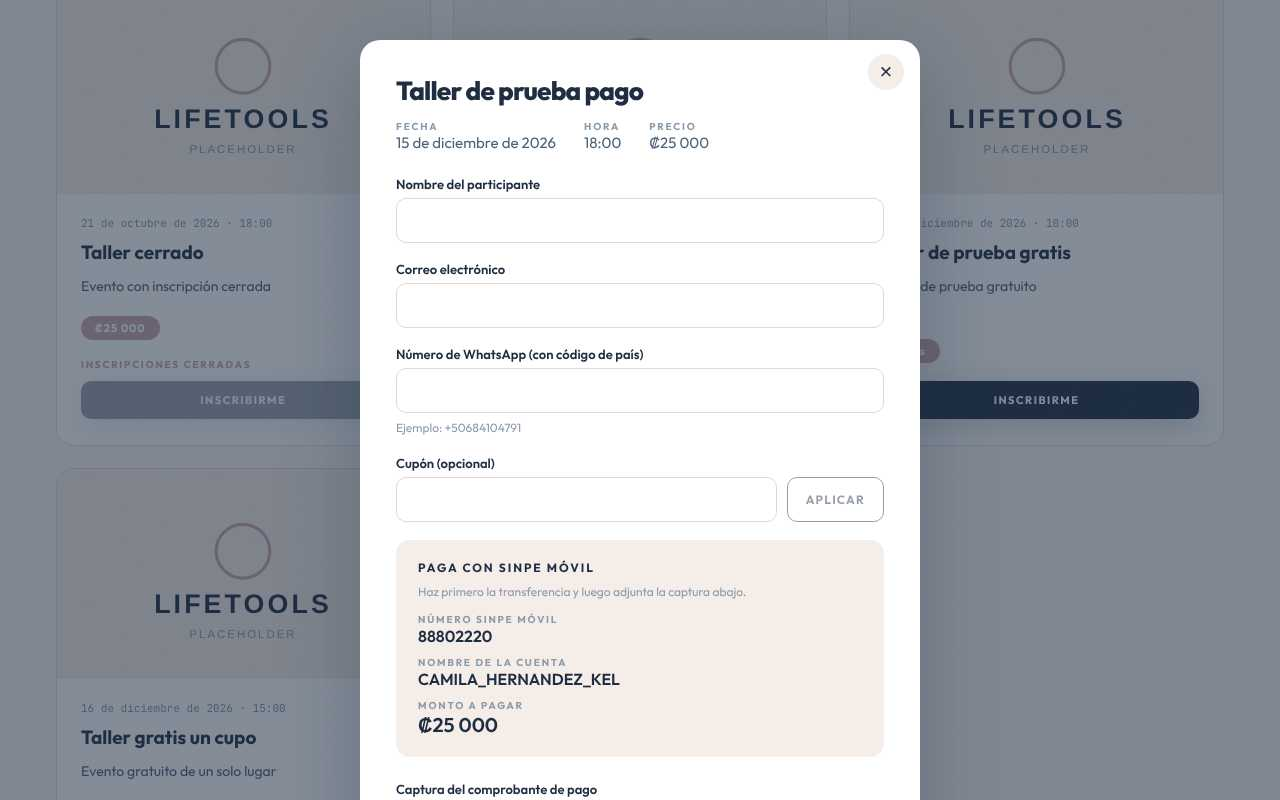
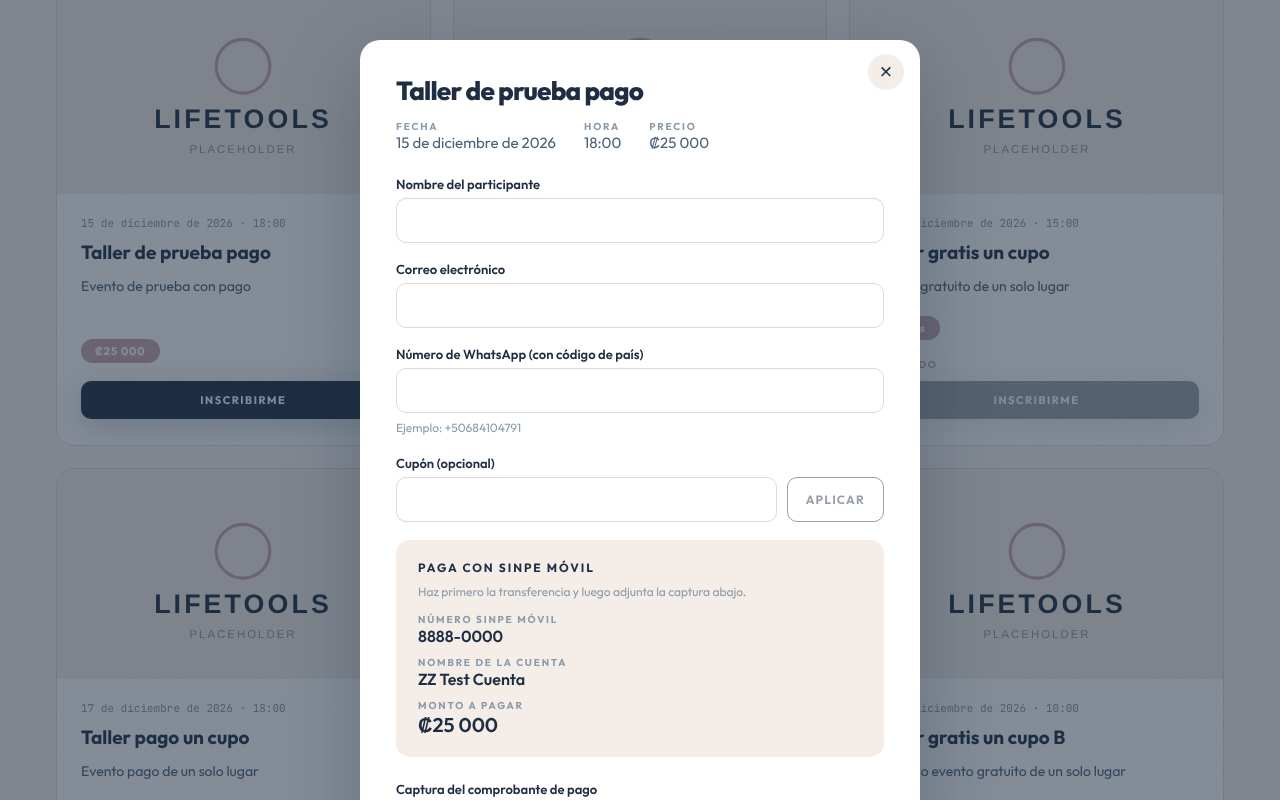
CMP-033: replace evidence images that showed real SINPE data, mask references, add case table and code-under-test details
Claude-Session: https://claude.ai/code/session_01A3YKwNKLnjWxTzKZ4UVZ6m

diff --git a/docs/sprints/SPRINT_02_VERIFICATION.md b/docs/sprints/SPRINT_02_VERIFICATION.md
@@ -13,12 +13,18 @@ before the PR is reported ready.
 
 | Item | Detail |
 |---|---|
-| Code under test | `main` after PR #29 (form), #28 (section and ticker) and the backend PRs; the staging scripts were re-pasted from PR #44 (CMP-045) during the run |
+| Code under test | Front end: `main` at `5f6cf9c` (PR #29 form, #28 section and ticker merged) at the start of the run; later merges into `main` during the run did not change application code. Backend: the staging deployment pasted by the owner from `main` with the backend PRs #33, #36, #38 and #39 (lock flush) included (the coordinator's go message of 2026-10-21 ~16:00Z). During the run the owner re-pasted the staging scripts from PR #44 (CMP-045), at about 00:15Z on 2026-10-22; see the table below |
 | Backend | Staging Apps Script deployment, staging spreadsheet and Drive folder (never production); the `/exec` URL is kept out of the repository |
 | Browser | Chromium (Playwright), `es-CR` and `en-US`, 1280 / 900 / 375 px; iPhone 13 emulation for the HEIC check; the site runs from the Vite dev server with `VITE_EVENTS_API_URL` pointing at staging, so every `events`, `coupon` and `register` call is a real browser `fetch` through the Apps Script redirect |
-| Test data | Synthetic images only; participant emails are plus-tags of the owner's Gmail (and Outlook) addresses and are not recorded here; references are not recorded here |
+| Test data | Synthetic images only; participant emails are plus-tags of the owner's Gmail (and Outlook) addresses and are not recorded here; registration references shown in screenshots are masked; the SINPE blocks in the form screenshots show test values (the pictures were taken with the `events` answer intercepted so that no real SINPE number or account name is in the repository) |
 | Rows, files, emails | Seen only by the owner; evidence screenshots are masked JPEGs in `docs/sprints/evidence/sprint-02/` (total under 5 MB) |
 | Not done | Real-iPhone Safari picker/HEIC check: **deferred to a pre-release check (owner, no device available)**. The substitute (a real HEIC file and an iPhone-style PNG through the form in a phone-sized viewport) is evidence for the client side only |
+
+Which results ran before and after the re-paste of PR #44 on staging (about 00:15Z, 2026-10-22):
+
+| Before the re-paste (backend #33/#36/#38/#39) | After the re-paste (backend incl. #44) |
+|---|---|
+| Form runs, live edits (a) and (b) of the form, the 27 API cases and the race (R18), the 15 + 4 email registrations, the HEIC/PNG substitute (first run, test values), CLS and regression captures | The HEIC re-run with the real values, the TNEW listing and removal, live edits 2 to 4 (coupon change, cancelled place, spam), the ticker/US-017 AC5/accessibility scripted checks (front-end only), the final evidence re-shoots |
 
 Legend: **Pass**, **Fail**, **N/A** (cannot be exercised, with the reason), **Pending (owner)**.
 
@@ -28,7 +34,7 @@ Legend: **Pass**, **Fail**, **N/A** (cannot be exercised, with the reason), **Pe
 | AC | Case | Result | Evidence |
 |---|---|---|---|
 | 1 | Cards in start order with name, date, time (24 h `HH:mm`), description, price or "Gratis/Free", register button; ES and EN | Pass | `page-events-{es,en}-{1280,900,375}.jpg` |
-| 2 | Event without image shows the Lifetools logo; event with an image URL (TART) shows the art | Pass | `page-events-*` (logo); art: see final re-shoot note in §4 |
+| 2 | Event without image shows the Lifetools logo; event with an image URL (TART) shows the art | Pass | `page-events-*` (logo), `page-events-art-{es-1280,en-375}.jpg` (art) |
 | 3 | Closed (registration closes 12 h before start) and sold-out events: button disabled, "Inscripciones cerradas" / "Agotado" (EN "Registration closed" / "Sold out") | Pass | cards of the closed event, the one-seat free event and the one-seat paid event |
 | 4 | EN site shows English name and description: automatic translation, and `nameEn`/`descriptionEn` override (TART shows the override) | Pass | `events?lang=en` listing, EN screenshots |
 | 5 | Backend down (requests aborted): no section, no ticker, page renders | Pass | scripted check |
@@ -69,7 +75,7 @@ Form-side runs on staging (CMP-032 pass and this run).
 | 3 | Exhausted coupon, coupon already used by the email: matching message, full price stays | Pass | scripted check |
 | 4 | A registration marked `spam` frees the coupon use: a one-use coupon answered `COUPON_EXHAUSTED` for another email; after the owner set the registration that held it to `spam`, the next check answered 20% and ₡20 000 (no cache) | Pass | live edit 4 |
 | 5 | Coupon deactivated after apply, then a paid registration: stored with the discount, flagged `coupon changed`; the visitor sees the review message | Pass (visitor side); row **Pending (owner)** | `form-es-1280-flagged-coupon-changed.jpg` |
-| 6 | Many failed coupon checks: refusal "try again later" | Pending: abuse burst |  |
+| 6 | Many failed coupon checks: refusal "try again later" | Pending: abuse burst (run last, with `MAIL_REPLY_TO` set to the owner's test address so camila@ gets no test alert) |  |
 | 7 | No coupon list is sent to the browser | Pass | the `events` response carries no coupon data |
 | 8 | A coupon typed but not applied blocks Submit with "Aplica el cupón o borra el campo."; no request is sent | Pass | CMP-032 mock run and the reviewer's run |
 
@@ -92,7 +98,7 @@ Form-side runs on staging (CMP-032 pass and this run).
 | 3 | Unreadable image: `unreadable`, review flag, email | Pending (owner) | `unreadEN` registrations |
 | 4 | Status stays `new`; temporary OCR Doc deleted | Pending (owner) | sheet and Drive |
 | 5 | Cami's sample screenshots in the spike | N/A here (done in CMP-024, `SPRINT_02_SPIKE.md`) |  |
-| 6 | OCR service refuses the call (rate limit) | N/A: cannot be provoked from the client |  |
+| 6 | OCR service refuses the call (rate limit): the row stays `pending`, no "not validated" email yet, the retry trigger writes the result and email later | Pass, shown live on staging in PR #39's Verification (two checks hit the per-user OCR limit and were finished by the trigger about 9 minutes later); not repeated here | PR #39 |
 | 7 | Original-format screenshot that OCR cannot read: `unreadable`, no "not validated" email | Pending (owner): depends on the HEIC result |  |
 
 ### US-023 — Cami manages events, capacity and coupons without a deploy
@@ -110,7 +116,7 @@ Form-side runs on staging (CMP-032 pass and this run).
 | AC | Case | Result | Evidence |
 |---|---|---|---|
 | 1 | Metrics row for the day: accepted, honeypot hits, throttled, failed coupon checks, MB uploaded, spam marked | Pending (owner) | Metrics tab |
-| 2 | Over a threshold: one alert email to camila@ for the day | Pending: abuse burst, run last |  |
+| 2 | Over a threshold: one alert email for the day. The burst runs last with `MAIL_REPLY_TO` on the owner's test address (runbook §2.6) and `LIMIT_UPLOADS_PER_DAY` lowered for the cap case, then restored | Pending: abuse burst |  |
 | 3 | Honeypot filled: normal-looking success, nothing stored, hit counted | Pass (response); count **Pending (owner)** | API case R14 |
 
 ### US-025 — Participant emails
@@ -118,7 +124,7 @@ Form-side runs on staging (CMP-032 pass and this run).
 |---|---|---|---|
 | 1 | Confirmation (ES and EN) with event, date/time, amount, reference, reply-to camila@; Gmail and Outlook | Pending (owner) | inbox screenshots |
 | 2 | "Payment not validated" for `mismatch` and `unreadable` (ES and EN); Gmail and Outlook | Pending (owner) |  |
-| 3 | Email cannot be sent: row stays, `email failed`, review flag | N/A: cannot be provoked from the client |  |
+| 3 | Email cannot be sent: row stays, `email failed`, review flag | N/A on staging (cannot be provoked from the client); covered by the local tests in PR #39 | PR #39 |
 | 4 | Templates approved by Cami | N/A: release gate (BR-E11), not part of this verification |  |
 | 5 | "Registration received" for a stored-and-flagged registration (ES and EN); Gmail and Outlook | Pending (owner) |  |
 
@@ -132,14 +138,39 @@ Form-side runs on staging (CMP-032 pass and this run).
 ## 3. Integration checks
 
 ### 3.1 Contract §10 end-to-end list (API level, staging)
-27 of 27 cases pass: `events` shape (§7) and the `-06:00` instants; every validation rule with a valid
-and an invalid case (submissionId, eventCode, name length, email, WhatsApp, coupon format, file
-type, file over 5 MB, consent, lang, missing file for a paid event); `EVENT_NOT_FOUND`,
-`REGISTRATION_CLOSED` (coupon check, and a ₡0 registration on a closed free event),
-`COUPON_INVALID` (unknown, other-event, invalid sheet rows), `SOLD_OUT`, `ALREADY_REGISTERED`,
-honeypot fake success; the simultaneous-registration race. Codes not exercised: `RATE_LIMITED` and
-`UPLOAD_CAP_REACHED` (abuse burst, pending), `SERVER_ERROR` (seen as the busy-lock answer in the
-race and as a network failure, see §3.4).
+27 of 27 cases pass (run before the re-paste of PR #44). The requests are `events`, `coupon` and `register`
+posted as `text/plain` JSON from a script; "valid" cases use a distinct synthetic participant.
+| ID | Request | Expected | Result |
+|---|---|---|---|
+| C01 | `events` (es) | `data.sinpe` with number, accountName, isPlaceholder; each event with eventCode, name, description, date, time, startsAt (`-06:00`), registrationClosesAt, priceCrc, imageUrl, soldOut, registrationOpen | Pass |
+| C02 | coupon, unknown event code | `EVENT_NOT_FOUND` | Pass |
+| C03 | coupon on a closed event | `REGISTRATION_CLOSED` | Pass |
+| C04 | coupon, code too short | `VALIDATION_ERROR` couponCode `invalid_coupon_format` | Pass |
+| C05 | coupon, bad email | `VALIDATION_ERROR` email `invalid_email` | Pass |
+| C06 | coupon rows with discount 150 and max uses 0 | `COUPON_INVALID` (rows ignored) | Pass (2 cases) |
+| C07a | coupon whose `expiresOn` is today (Costa Rica) | valid, 10% | Pass |
+| C07b | coupon 15% on ₡12 345 | ₡10 493 (nearest colón) | Pass |
+| C08 | coupon of another event | `COUPON_INVALID` | Pass |
+| R01 | register, `submissionId` not a UUID | `VALIDATION_ERROR` submissionId `required` | Pass |
+| R02 | register, `eventCode` `x` | `VALIDATION_ERROR` eventCode `required` | Pass |
+| R03 | participantName 1 character | `VALIDATION_ERROR` participantName | Pass |
+| R04 | participantName 81 characters | `VALIDATION_ERROR` participantName | Pass |
+| R05 | email `bad` | `invalid_email` | Pass |
+| R06 | WhatsApp without `+` and country code | `invalid_phone` | Pass |
+| R07 | couponCode `ab` | `invalid_coupon_format` | Pass |
+| R08 | file that is not an image (JPEG name and type) | `invalid_file_type` | Pass |
+| R09 | image over 5 MB (about 7.3 MB of base64) | `file_too_large` | Pass |
+| R10 | consent false | `consent_required` | Pass |
+| R11 | lang `fr` | `VALIDATION_ERROR` lang `required` | Pass |
+| R12 | paid event without a file | `VALIDATION_ERROR` file `required` | Pass |
+| R13 | unknown event `NOPE1` | `EVENT_NOT_FOUND` | Pass |
+| R14 | honeypot `website` filled | `ok: true` with a fake reference, nothing stored | Pass |
+| R15 | unknown coupon code at register (with file) | `COUPON_INVALID` | Pass |
+| R16 | ₡0 registration on a closed free event | `REGISTRATION_CLOSED` | Pass |
+| R18 | two simultaneous ₡0 registrations for the last place | not both `ok` | Pass: one `ok`, one `SERVER_ERROR` (busy lock); a third request then got `SOLD_OUT` |
+
+The race ran against the backend with PR #39's lock flush (see §1). Codes not exercised: `RATE_LIMITED` and
+`UPLOAD_CAP_REACHED` (abuse burst, pending), `SERVER_ERROR` as a failure (seen only as the busy-lock answer and as a network failure, §3.4).
 
 ### 3.2 Real browser to staging (CORS and redirect path)
 Pass. Every call of the form run (events, coupon, register, with a 7 MB base64 body) went through
@@ -180,9 +211,9 @@ Stored file type, check result and emails: Pending (owner).
 
 ## 4. Evidence index
 All files are in `docs/sprints/evidence/sprint-02/` (JPEG, masked, under 5 MB in total):
-`page-*` (layout and regression), `form-*` (form states on staging), `mobile-iphone13-heic-*`,
+`page-*` (layout and regression; `page-events-art-*` shows the event with an image), `form-*` (form states; the SINPE blocks show test values and registration references are masked), `mobile-iphone13-heic-*` (test values shown, reference masked),
 `us005-ac2-featured-expanded-es.jpg`. Sheet, Drive and inbox screenshots from the owner are added
-here when received. A final re-shoot of the events section (with the art event) is added after the live edits.
+here when received. 
 
 ## 5. Failures, observations and proposed tickets
 | # | Item | Class | Proposal |
